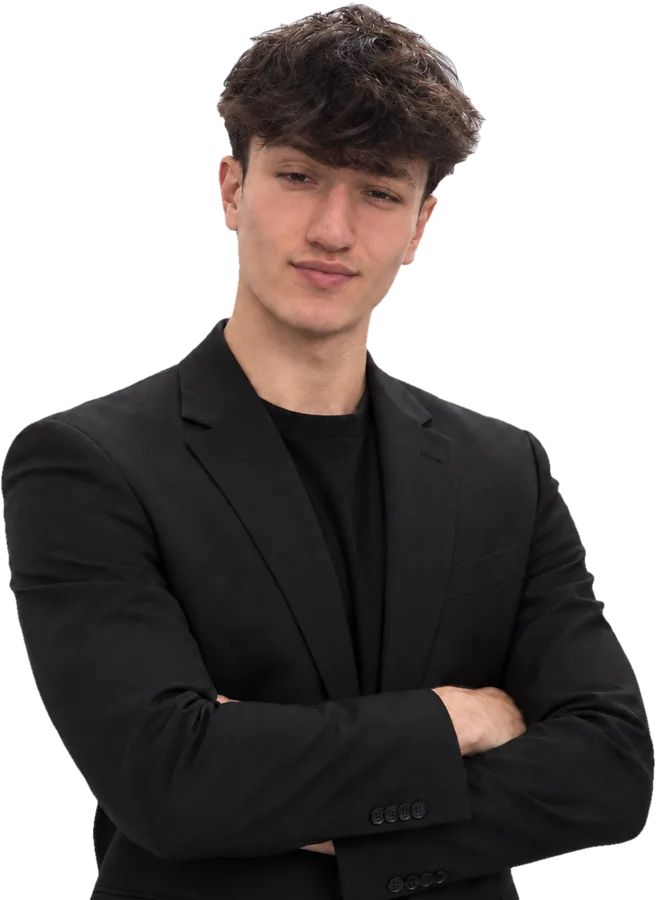
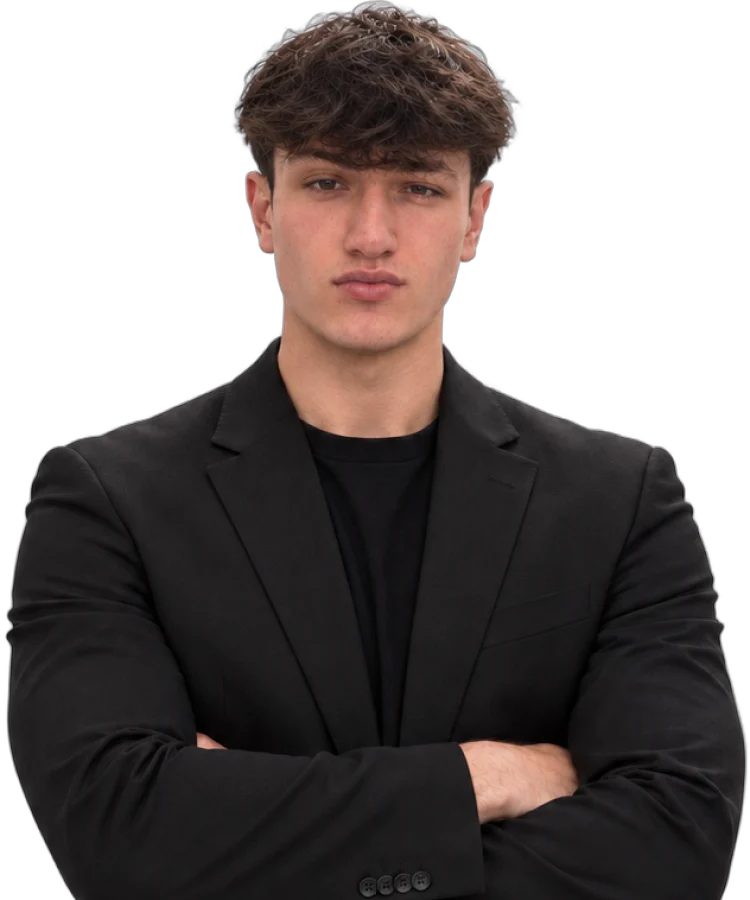
Team: nuova foto Antonio, teste non più tagliate; script di pubblicazione Automa

diff --git a/css/style.css b/css/style.css
@@ -1214,8 +1214,8 @@ html[data-lang="it"] :is(.legal, .legal-foot) [lang="en"], html[data-lang="en"] 
 .member__photo::before { content: ""; position: absolute; inset: 0; opacity: .35;
   background-image: radial-gradient(rgba(255,255,255,.35) 1px, transparent 1px); background-size: 16px 16px;
   -webkit-mask-image: radial-gradient(60% 50% at 50% 35%, #000, transparent); mask-image: radial-gradient(60% 50% at 50% 35%, #000, transparent); }
-.member__photo img { position: relative; height: 104%; width: auto; max-width: none; object-fit: contain; transform-origin: 50% 100%; transition: transform .8s var(--ease);
-  -webkit-mask-image: linear-gradient(180deg, #000 72%, transparent 99%); mask-image: linear-gradient(180deg, #000 72%, transparent 99%); }
+.member__photo img { position: relative; height: 87%; width: auto; max-width: 96%; object-fit: contain; object-position: 50% 100%; transform-origin: 50% 100%; transition: transform .8s var(--ease);
+  -webkit-mask-image: linear-gradient(180deg, #000 66%, transparent 98%); mask-image: linear-gradient(180deg, #000 66%, transparent 98%); }
 .member:hover .member__photo img { transform: scale(1.04); }
 .member__role { position: absolute; left: 16px; top: 16px; padding: 6px 11px; border-radius: 99px; background: rgba(255,255,255,.14); border: 1px solid rgba(255,255,255,.25); color: #fff; font-size: .74rem; font-weight: 700; backdrop-filter: blur(8px); }
 .member__body { display: flex; flex-direction: column; gap: 8px; padding: 22px 22px 24px; flex: 1; }
